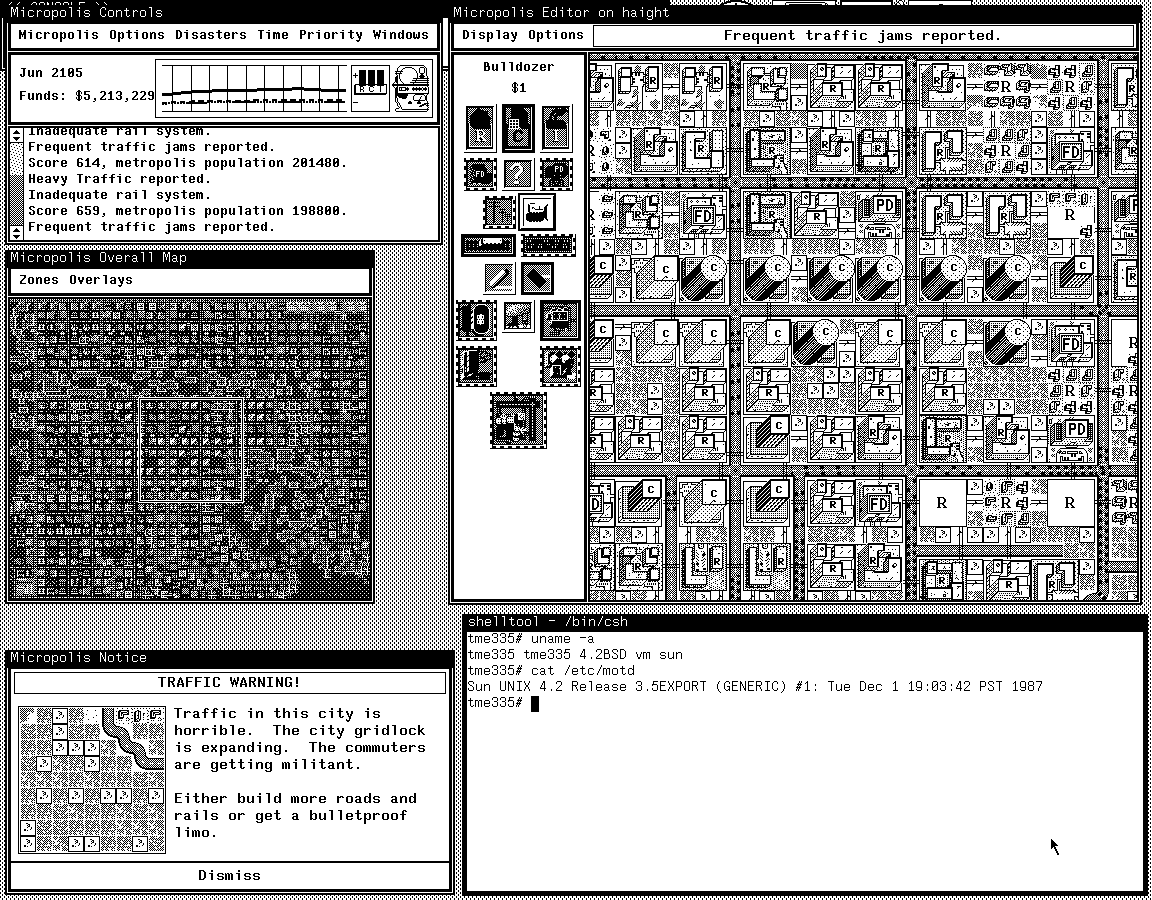
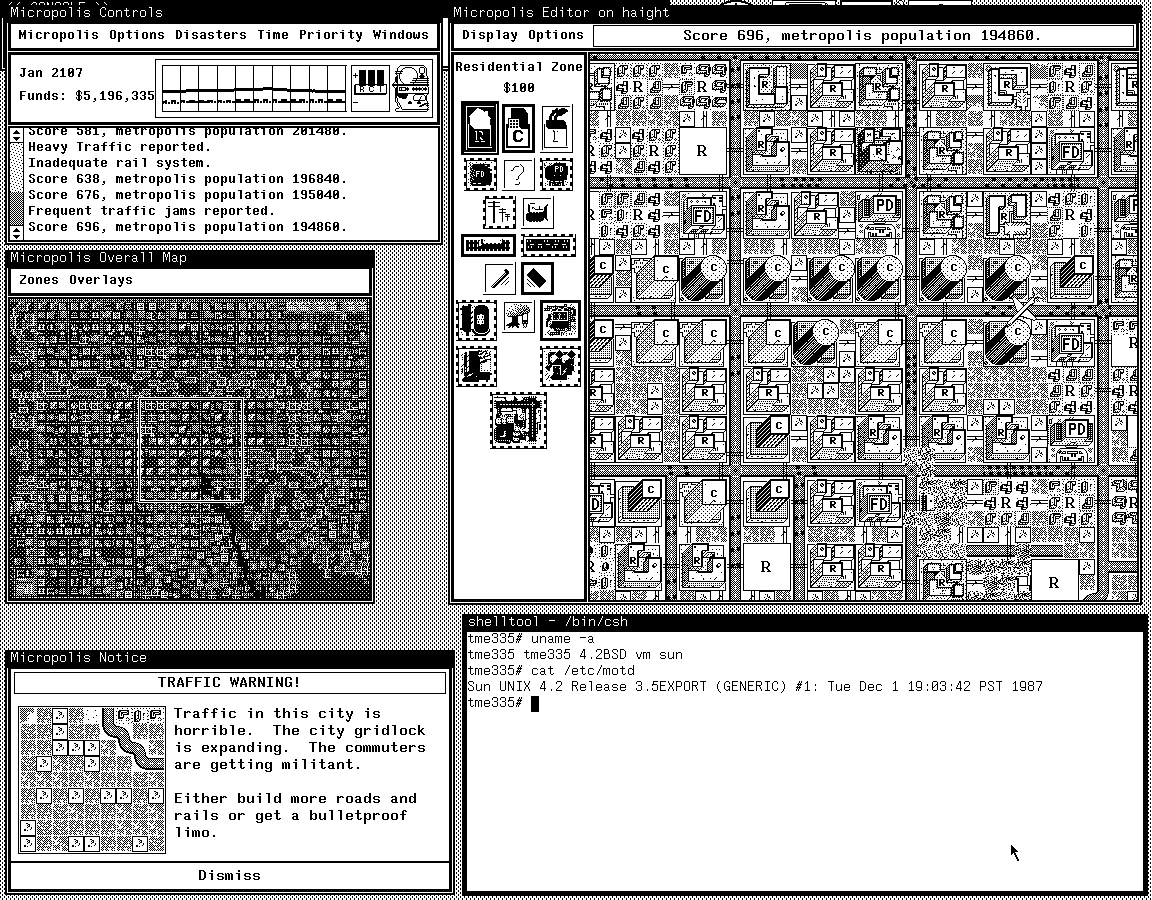
Show the tool palette the right way round in 1-bit mode
The tool icons have only color definitions.  In 1 bit the plain ones
came out dark and the selected tool's hi icon light, so the palette
looked like a negative.  Now every tool shows its hi icon, and the
selected one is in reverse video, as DUX's own mono colors do for its
graph buttons.  Color mode is unchanged.

diff --git a/src/sv_tools.c b/src/sv_tools.c
@@ -111,7 +111,12 @@ tl_draw()
 
   for (i = 0; tl_layout[i].icon != NULL; i++) {
     sel = (tl_layout[i].state == tl_state);
-    img = tl_img[i][sel];
+    /* DUX shows the plain icons, and the hi one for the selected tool.
+     * The icons have no mono colors, so in 1 bit the plain ones come out
+     * dark and the hi ones light.  There every tool shows its hi icon, and
+     * the selected one in reverse video, as DUX's mono colors do for its
+     * graph buttons (gr*hi.xpm). */
+    img = tl_img[i][(sel || !SvColor) ? 1 : 0];
     if (img == NULL)
       img = tl_img[i][0];
     if (img == NULL)
@@ -122,9 +127,12 @@ tl_draw()
     sv_draw_image(tl_buf, x + 1, y + 1, img);
     if (SvColor)
       sv_bevel(tl_buf, x, y, img->w + 2, img->h + 2, !sel);
-    else if (sel)
+    else if (sel) {
+      pr_rop(tl_buf, x + 1, y + 1, img->w, img->h, PIX_NOT(PIX_DST),
+	     (Pixrect *)0, 0, 0);
       sv_frame_rect(tl_buf, x - 1, y - 1, img->w + 4, img->h + 4,
 		    SIMCOLOR_BLACK, 2);
+    }
   }
 }
 
